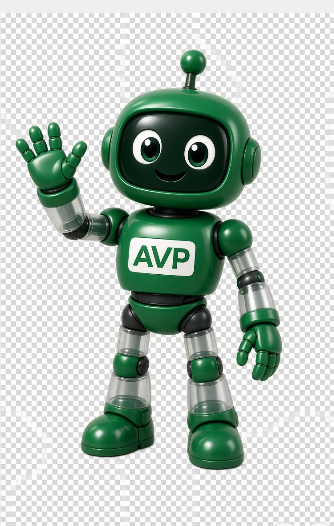
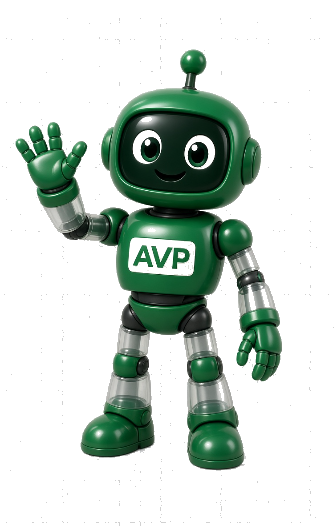
Add files via upload

diff --git a/avp-core.js b/avp-core.js
@@ -80,10 +80,9 @@
       title="Công cụ nhanh — kéo để di chuyển"
     >
       <span class="avp-bot" aria-hidden="true">
-        <img class="avp-bot-img" src="avp-bot-wave.png" alt="AVP">
-        <video class="avp-bot-vid" id="avpBotVid" src="avp-bot.webm" poster="avp-bot-wave.png" muted playsinline loop></video>
+        <img class="avp-bot-img" src="avp-bot-wave.png" alt="">
+        <video class="avp-bot-vid" id="avpBotVid" src="avp-bot.webm" muted playsinline loop></video>
       </span>
-      <span class="avp-edge-main-icon" hidden>AVP</span>
       <span class="avp-edge-badge" id="avpEdgeBadge" hidden>0</span>
     </button>
   `;
@@ -559,8 +558,6 @@
     edgeMenu.hidden=!open;
     launcher.classList.toggle('open',open);
     fab.setAttribute('aria-expanded',open?'true':'false');
-    const icon=fab.querySelector('.avp-edge-main-icon');
-    if(icon)icon.textContent='AVP';
     if(open){
       launcher.classList.remove('is-walking');
       launcher.classList.add('is-greeting');

diff --git a/avp-core.css b/avp-core.css
@@ -1670,3 +1670,26 @@ html.avp-has-robot .avp-edge-mini-preview-v2,
 #avpEdgeLauncher.is-robot .avp-bot-vid{
   z-index:1 !important;
 }
+
+/* ROBOT 3D ONLY — kill old oval + AVP text */
+#avpEdgeLauncher.is-robot .avp-edge-main,
+#avpEdgeLauncher.is-robot .avp-hub-fab{
+  background:none !important;
+  background-image:none !important;
+  border:0 !important;
+  border-radius:0 !important;
+  box-shadow:none !important;
+  outline:0 !important;
+}
+#avpEdgeLauncher.is-robot .avp-edge-main::before,
+#avpEdgeLauncher.is-robot .avp-edge-main::after{
+  display:none !important;
+  content:none !important;
+}
+#avpEdgeLauncher.is-robot .avp-edge-main-icon{
+  display:none !important;
+}
+#avpEdgeLauncher.is-robot .avp-bot-img{
+  background:transparent !important;
+  filter:drop-shadow(0 10px 14px rgba(0,20,10,.45)) drop-shadow(0 2px 0 rgba(255,255,255,.2));
+}
